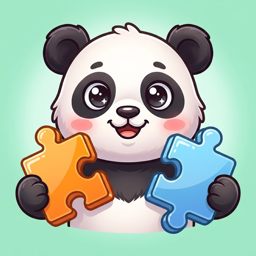
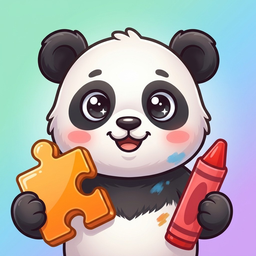
Rename to KidoPlay and cover coloring
Privacy: paintings stored on device, add-only Photos saving behind the
parental gate, pretend camera, rating link. Support: coloring help,
saving to Photos, free content for both modes. New app icon.

diff --git a/privacy.html b/privacy.html
@@ -5,7 +5,7 @@
 <meta name="theme-color" content="#DFF3FF">
 <link rel="icon" href="icon.png">
 <meta name="viewport" content="width=device-width, initial-scale=1">
-<title>KidoPuzzle - Privacy Policy</title>
+<title>KidoPlay - Privacy Policy</title>
 <style>
   :root {
     color-scheme: light dark;
@@ -53,36 +53,40 @@
 </style>
 </head>
 <body>
-<header class="brand"><a href="index.html"><img src="icon.png" alt=""><span><span class="kido">Kido</span><span class="puzzle">Puzzle</span></span></a></header>
+<header class="brand"><a href="index.html"><img src="icon.png" alt=""><span><span class="kido">Kido</span><span class="puzzle">Play</span></span></a></header>
 <main class="card">
 <h1>Privacy Policy</h1>
-<p class="updated">Last updated: October 27, 2026</p>
+<p class="updated">Last updated: November 14, 2026</p>
 
-<p>KidoPuzzle ("we", "our", "the app") is a jigsaw puzzle game for young children aged 2 to 6. This policy explains what data the app handles, where it is stored, and your rights under COPPA, GDPR, CCPA and other applicable laws. The app is designed for children and is built so that it does not collect personal information from them.</p>
+<p>KidoPlay ("we", "our", "the app") is a jigsaw puzzle and coloring app for young children aged 2 to 6. This policy explains what data the app handles, where it is stored, and your rights under COPPA, GDPR, CCPA and other applicable laws. The app is designed for children and is built so that it does not collect personal information from them.</p>
 
 <h2>Data We Collect</h2>
-<p>KidoPuzzle does not require an account and never asks a child for a name, photo, email address, location or any other personal information. The following stays on your device only:</p>
+<p>KidoPlay does not require an account and never asks a child for a name, photo, email address, location or any other personal information. The following stays on your device only:</p>
 <ul>
   <li>Puzzle progress: stars earned and favorite themes</li>
+  <li>Coloring pages: your child's paintings and the stickers placed on them</li>
   <li>The age range a parent picks during setup (used only to suggest a starting difficulty)</li>
-  <li>App preferences: language, music, sound effects, haptics, piece count and cut style</li>
+  <li>App preferences: language, music, sound effects, haptics, piece count, cut style and night mode</li>
 </ul>
-<p>KidoPuzzle does not include analytics, crash reporting, advertising or social features, and it contains no links to the web or other apps outside the parental gate.</p>
+<p>KidoPlay does not include analytics, crash reporting, advertising or social features, and it contains no links to the web or other apps outside the parental gate.</p>
 
 <h2>Data Storage</h2>
-<p>The data above is stored in the app's private storage on your iPhone or iPad. It is not uploaded to our servers, and we do not operate servers that receive it. Deleting the app deletes this data, and you can also reset progress in the app's Settings. If you use iCloud or computer backups, iOS may include the app's data in those backups according to your device settings.</p>
+<p>The data above is stored in the app's private storage on your iPhone or iPad. It is not uploaded to our servers, and we do not operate servers that receive it. Deleting the app deletes this data. You can also reset puzzle progress in the app's Settings and clear any painting with the trash button on its page. If you use iCloud or computer backups, iOS may include the app's data in those backups according to your device settings.</p>
+
+<h2>Photos and Camera</h2>
+<p>A grown-up can save a finished painting to the Photos library. This is behind the parental gate and uses add-only access: the app can add that one picture, but it cannot view, read or upload anything in your photo library. The yellow camera button on the coloring screen is a pretend toy: it only plays a shutter sound and an animation. KidoPlay never uses the device camera or microphone.</p>
 
 <h2>Parental Gate</h2>
-<p>Settings, purchases and any external links are protected by a parental gate (a simple adult check), so children cannot reach them on their own.</p>
+<p>Settings, purchases, saving to Photos and any external links (such as the privacy policy, support and the App Store rating page) are protected by a parental gate (a simple adult check), so children cannot reach them on their own.</p>
 
 <h2>Third-Party Services</h2>
 <ul>
   <li><strong>Apple App Store</strong> processes subscription payments. We never see your payment details. See <a href="https://www.apple.com/legal/privacy/">Apple's Privacy Policy</a>.</li>
-  <li><strong>RevenueCat</strong> manages subscription status for the adult who buys KidoPuzzle Pro. To validate purchases it receives an anonymous app user ID, transaction and subscription details, and basic device and app information (such as OS version, app version, locale and IP address). It is not used to identify anyone, for advertising or for tracking. See <a href="https://www.revenuecat.com/privacy">RevenueCat's Privacy Policy</a>.</li>
+  <li><strong>RevenueCat</strong> manages subscription status for the adult who buys KidoPlay Pro. To validate purchases it receives an anonymous app user ID, transaction and subscription details, and basic device and app information (such as OS version, app version, locale and IP address). It is not used to identify anyone, for advertising or for tracking. See <a href="https://www.revenuecat.com/privacy">RevenueCat's Privacy Policy</a>.</li>
 </ul>
 
 <h2>We Do Not Sell or Track</h2>
-<p>KidoPuzzle shows no ads, does not track users across other companies' apps or websites, and does not sell or share personal information.</p>
+<p>KidoPlay shows no ads, does not track users across other companies' apps or websites, and does not sell or share personal information.</p>
 
 <h2>Children's Privacy (COPPA)</h2>
 <p>We do not knowingly collect personal information from children under 13. Gameplay data never leaves the device. If you believe information about your child has been collected, contact us and we will delete it.</p>
@@ -102,6 +106,6 @@
 <h2>Contact</h2>
 <p>Questions or requests: <a href="mailto:mgokhan.yavuz@gmail.com">mgokhan.yavuz@gmail.com</a></p>
 </main>
-<footer>© 2026 KidoPuzzle · <a href="mailto:mgokhan.yavuz@gmail.com">mgokhan.yavuz@gmail.com</a></footer>
+<footer>© 2026 KidoPlay · <a href="mailto:mgokhan.yavuz@gmail.com">mgokhan.yavuz@gmail.com</a></footer>
 </body>
 </html>

diff --git a/support.html b/support.html
@@ -5,7 +5,7 @@
 <meta name="theme-color" content="#DFF3FF">
 <link rel="icon" href="icon.png">
 <meta name="viewport" content="width=device-width, initial-scale=1">
-<title>KidoPuzzle - Support</title>
+<title>KidoPlay - Support</title>
 <style>
   :root {
     color-scheme: light dark;
@@ -53,41 +53,47 @@
 </style>
 </head>
 <body>
-<header class="brand"><a href="index.html"><img src="icon.png" alt=""><span><span class="kido">Kido</span><span class="puzzle">Puzzle</span></span></a></header>
+<header class="brand"><a href="index.html"><img src="icon.png" alt=""><span><span class="kido">Kido</span><span class="puzzle">Play</span></span></a></header>
 <main class="card">
-<h1>KidoPuzzle Support</h1>
-<p class="lead">Help with puzzles, settings and your subscription.</p>
+<h1>KidoPlay Support</h1>
+<p class="lead">Help with puzzles, coloring, settings and your subscription.</p>
 
 <h2>Contact</h2>
-<p>Email <a href="mailto:mgokhan.yavuz@gmail.com?subject=KidoPuzzle%20support">mgokhan.yavuz@gmail.com</a>. Please include your device model, iOS version and what happened. We usually reply within two business days.</p>
+<p>Email <a href="mailto:mgokhan.yavuz@gmail.com?subject=KidoPlay%20support">mgokhan.yavuz@gmail.com</a>. Please include your device model, iOS version and what happened. We usually reply within two business days.</p>
 
 <h2>How do I open Settings?</h2>
-<p>Tap the gear button on the home screen and answer the short adult question (the parental gate). There you can change the language, turn music, sound effects and haptics on or off, restore purchases and reset progress.</p>
+<p>Tap the gear button at the top right of the puzzle or coloring home screen and answer the short adult question (the parental gate). There you can change the language, turn music, sound effects and haptics on or off, restore purchases and reset puzzle progress.</p>
 
 <h2>How do I make puzzles easier or harder?</h2>
 <p>Before a puzzle starts, pick the number of stars on the left (4, 6, 9, 12 or 16 pieces) and the cut style on the right (classic, wavy or square). Each puzzle has a few hints; tap the light bulb to show where a piece goes.</p>
 
+<h2>How does coloring work?</h2>
+<p>Choose Coloring on the first screen, pick a theme at the top and tap a page. Pick a tool on the left and a color on the right: the bucket fills an area with one tap, and the brushes never go outside the lines. Paintings are saved automatically. The arrow button undoes the last step and the trash button clears the page.</p>
+
+<h2>How do I save a painting to Photos?</h2>
+<p>On the coloring screen, tap the pink save button and answer the adult question. The first time, iOS asks for permission to add photos. If saving fails, open the Settings app &gt; KidoPlay &gt; Photos and allow "Add Photos Only". The yellow camera button is just for fun: it plays a shutter sound and does not take or save a real photo.</p>
+
 <h2>There's no sound</h2>
 <ul>
-  <li>Check that Music and Sound Effects are on in KidoPuzzle's Settings.</li>
+  <li>Check that Music and Sound Effects are on in KidoPlay's Settings.</li>
   <li>Turn up the device volume and make sure the Ring/Silent switch or Focus mode isn't muting media.</li>
 </ul>
 
 <h2>The app is in the wrong language</h2>
-<p>KidoPuzzle follows your device language by default. To choose another one, open Settings in the app and pick a language.</p>
+<p>KidoPlay follows your device language by default. To choose another one, open Settings in the app and pick a language.</p>
 
 <h2>Subscription</h2>
 <ul>
-  <li><strong>Free puzzles:</strong> the first puzzles in every theme are free. KidoPuzzle Pro unlocks all puzzles and new themes.</li>
-  <li><strong>Manage or cancel:</strong> Settings app &gt; your name &gt; Subscriptions &gt; KidoPuzzle. Cancel at least 24 hours before the end of the current period to avoid renewal.</li>
-  <li><strong>Restore a purchase:</strong> in KidoPuzzle, open Settings &gt; Restore Purchases while signed in with the same Apple Account.</li>
+  <li><strong>Free content:</strong> the first three puzzles and the first coloring page in every theme are free. KidoPlay Pro unlocks all puzzles, all coloring pages and new themes with one subscription.</li>
+  <li><strong>Manage or cancel:</strong> Settings app &gt; your name &gt; Subscriptions &gt; KidoPlay. Cancel at least 24 hours before the end of the current period to avoid renewal.</li>
+  <li><strong>Restore a purchase:</strong> in KidoPlay, open Settings &gt; Restore Purchases while signed in with the same Apple Account.</li>
   <li><strong>Refunds</strong> are handled by Apple at <a href="https://reportaproblem.apple.com">reportaproblem.apple.com</a>.</li>
   <li><strong>Terms of Use:</strong> <a href="https://www.apple.com/legal/internet-services/itunes/dev/stdeula/">Apple Standard EULA</a>.</li>
 </ul>
 
 <h2>Deleting your data</h2>
-<p>Progress and preferences are stored only on your device. Use Settings &gt; Reset Progress, or delete the app to remove everything. See the <a href="privacy.html">Privacy Policy</a> for details.</p>
+<p>Progress, paintings and preferences are stored only on your device. Use Settings &gt; Reset Progress for puzzle stars, the trash button on a coloring page to clear that painting, or delete the app to remove everything. See the <a href="privacy.html">Privacy Policy</a> for details.</p>
 </main>
-<footer>© 2026 KidoPuzzle · <a href="mailto:mgokhan.yavuz@gmail.com">mgokhan.yavuz@gmail.com</a></footer>
+<footer>© 2026 KidoPlay · <a href="mailto:mgokhan.yavuz@gmail.com">mgokhan.yavuz@gmail.com</a></footer>
 </body>
 </html>

diff --git a/index.html b/index.html
@@ -5,7 +5,7 @@
 <meta name="theme-color" content="#DFF3FF">
 <link rel="icon" href="icon.png">
 <meta name="viewport" content="width=device-width, initial-scale=1">
-<title>KidoPuzzle</title>
+<title>KidoPlay</title>
 <style>
   :root {
     color-scheme: light dark;
@@ -53,16 +53,16 @@
 </style>
 </head>
 <body>
-<header class="brand"><a href="index.html"><img src="icon.png" alt=""><span><span class="kido">Kido</span><span class="puzzle">Puzzle</span></span></a></header>
+<header class="brand"><a href="index.html"><img src="icon.png" alt=""><span><span class="kido">Kido</span><span class="puzzle">Play</span></span></a></header>
 <main class="card">
 <h1>Hello, grown-ups!</h1>
-<p>Gentle jigsaw puzzles for toddlers and preschoolers.</p>
+<p>Gentle jigsaw puzzles and coloring pages for toddlers and preschoolers.</p>
 <ul class="links">
   <li><a href="support.html">Support</a></li>
   <li><a href="privacy.html">Privacy Policy</a></li>
   <li><a href="https://www.apple.com/legal/internet-services/itunes/dev/stdeula/">Terms of Use</a></li>
 </ul>
 </main>
-<footer>© 2026 KidoPuzzle · <a href="mailto:mgokhan.yavuz@gmail.com">mgokhan.yavuz@gmail.com</a></footer>
+<footer>© 2026 KidoPlay · <a href="mailto:mgokhan.yavuz@gmail.com">mgokhan.yavuz@gmail.com</a></footer>
 </body>
 </html>
